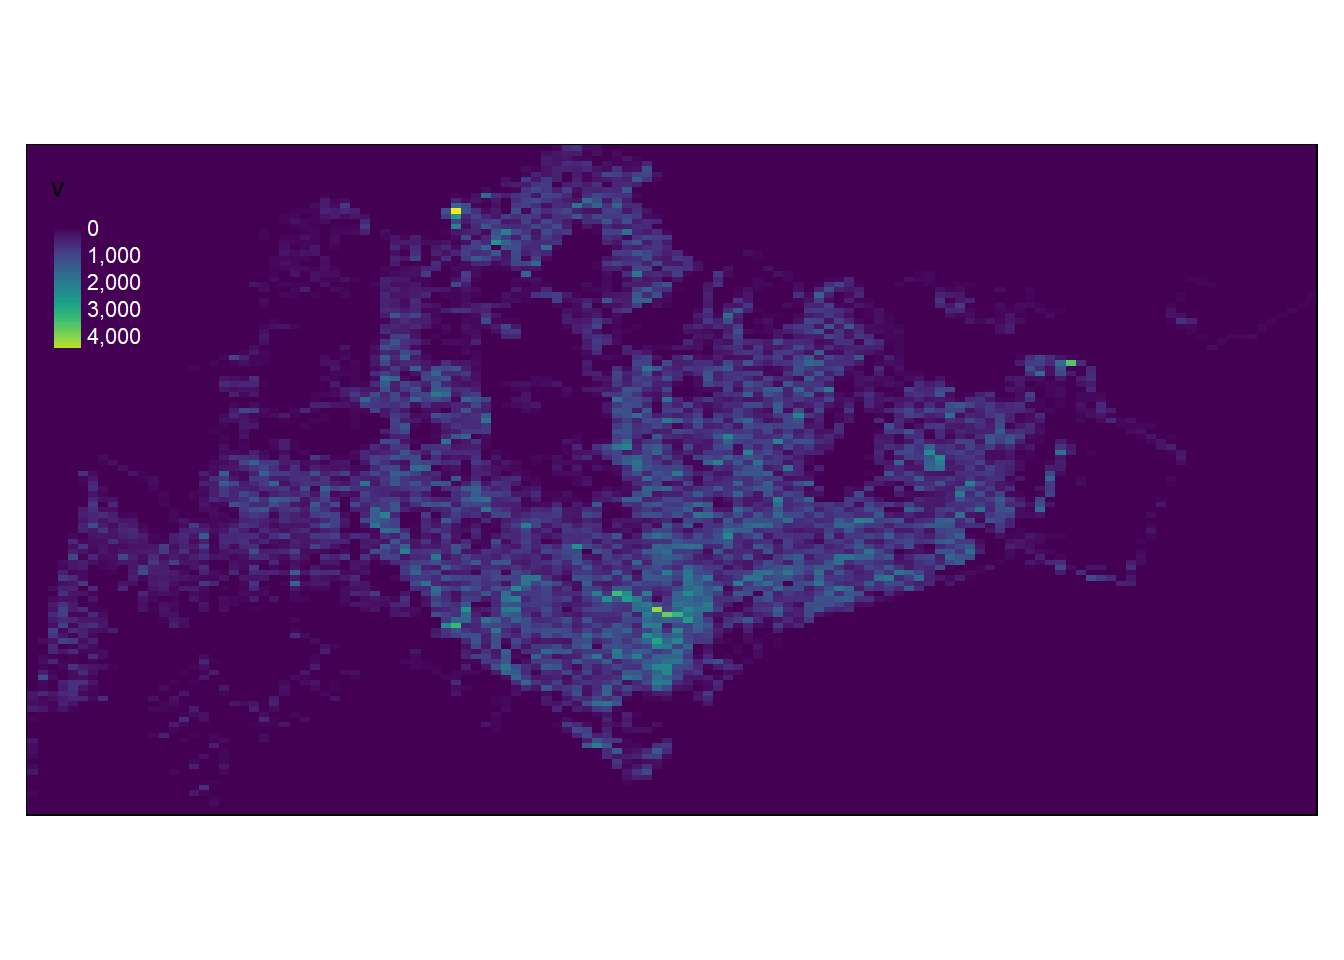
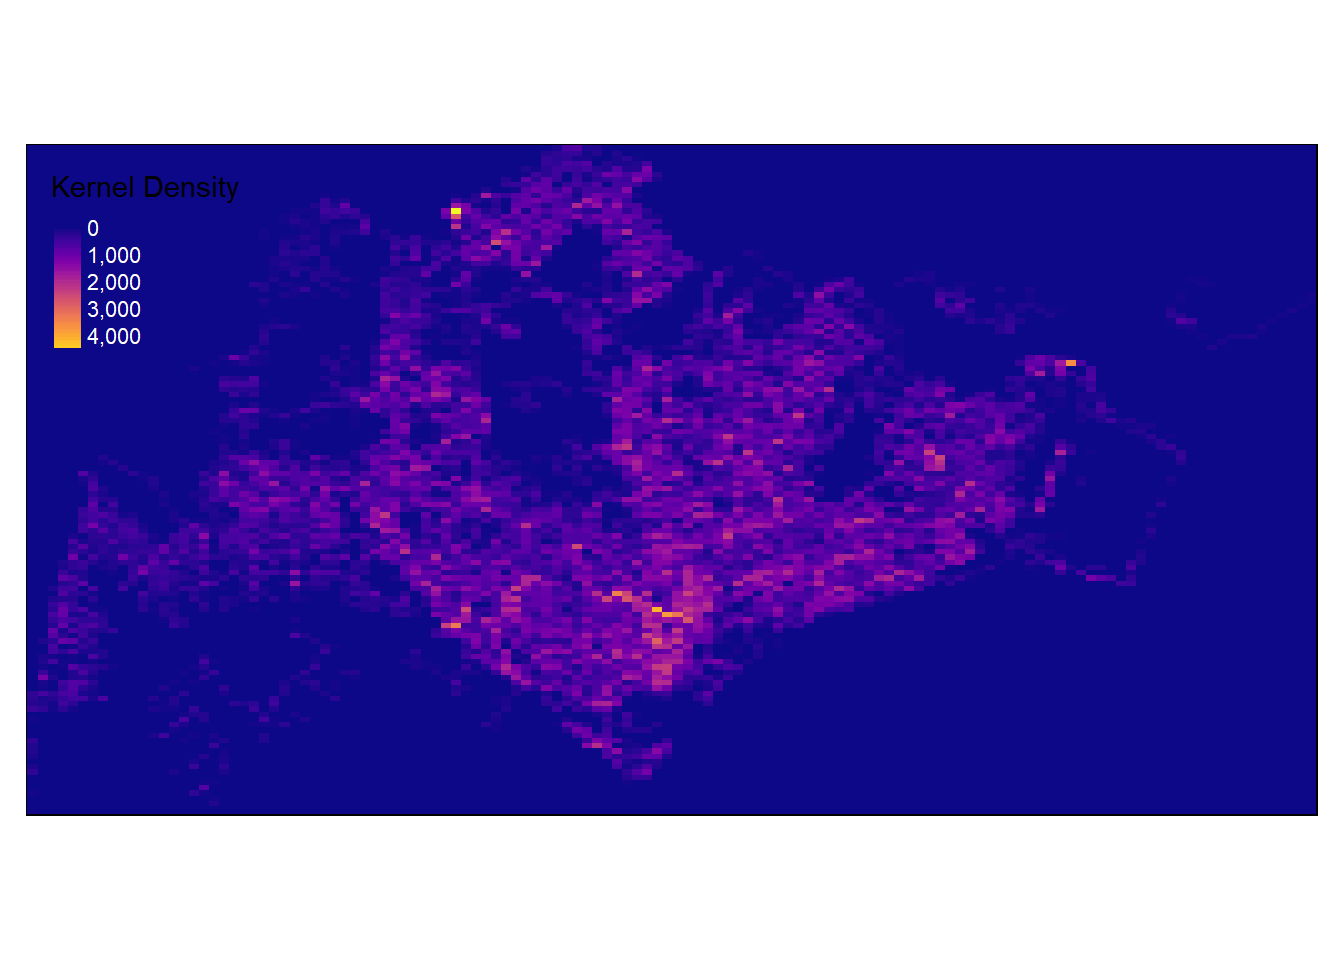
update

diff --git a/_site/Take-home_Ex/Take-home_Ex01/Take-home_Ex01.html b/_site/Take-home_Ex/Take-home_Ex01/Take-home_Ex01.html
@@ -1147,10 +1147,11 @@ Note
 <div class="sourceCode cell-code" id="cb87"><pre class="sourceCode r code-with-copy"><code class="sourceCode r"><span id="cb87-1"><a href="#cb87-1" aria-hidden="true" tabindex="-1"></a>osm_layer <span class="ot">&lt;-</span> <span class="fu">qtm</span>(<span class="at">basemaps =</span> <span class="st">"OpenStreetMap"</span>, <span class="at">zoom =</span> <span class="dv">12</span>)</span></code><button title="Copy to Clipboard" class="code-copy-button"><i class="bi"></i></button></pre></div>
 </div>
 <div class="cell">
-<div class="sourceCode cell-code" id="cb88"><pre class="sourceCode r code-with-copy"><code class="sourceCode r"><span id="cb88-1"><a href="#cb88-1" aria-hidden="true" tabindex="-1"></a><span class="fu">tm_shape</span>(kde_kde_roadSG_bw_raster) <span class="sc">+</span></span>
-<span id="cb88-2"><a href="#cb88-2" aria-hidden="true" tabindex="-1"></a>  <span class="fu">tm_raster</span>(<span class="at">style =</span> <span class="st">"cont"</span>, <span class="at">palette =</span> <span class="st">"viridis"</span>) <span class="sc">+</span></span>
-<span id="cb88-3"><a href="#cb88-3" aria-hidden="true" tabindex="-1"></a>  <span class="fu">tm_layout</span>(<span class="at">legend.show =</span> <span class="cn">TRUE</span>, <span class="at">legend.text.color =</span> <span class="st">"white"</span>) <span class="sc">+</span></span>
-<span id="cb88-4"><a href="#cb88-4" aria-hidden="true" tabindex="-1"></a>  osm_layer</span></code><button title="Copy to Clipboard" class="code-copy-button"><i class="bi"></i></button></pre></div>
+<div class="sourceCode cell-code" id="cb88"><pre class="sourceCode r code-with-copy"><code class="sourceCode r"><span id="cb88-1"><a href="#cb88-1" aria-hidden="true" tabindex="-1"></a><span class="fu">tmap_mode</span>(<span class="st">"plot"</span>)</span>
+<span id="cb88-2"><a href="#cb88-2" aria-hidden="true" tabindex="-1"></a><span class="fu">tm_shape</span>(kde_kde_roadSG_bw_raster) <span class="sc">+</span></span>
+<span id="cb88-3"><a href="#cb88-3" aria-hidden="true" tabindex="-1"></a>  <span class="fu">tm_raster</span>(<span class="at">style =</span> <span class="st">"cont"</span>, <span class="at">palette =</span> <span class="st">"plasma"</span>, <span class="at">title=</span> <span class="st">"Kernel Density"</span>) <span class="sc">+</span></span>
+<span id="cb88-4"><a href="#cb88-4" aria-hidden="true" tabindex="-1"></a>  <span class="fu">tm_layout</span>(<span class="at">legend.show =</span> <span class="cn">TRUE</span>, <span class="at">legend.text.color =</span> <span class="st">"white"</span>) <span class="sc">+</span></span>
+<span id="cb88-5"><a href="#cb88-5" aria-hidden="true" tabindex="-1"></a>  osm_layer</span></code><button title="Copy to Clipboard" class="code-copy-button"><i class="bi"></i></button></pre></div>
 <div class="cell-output-display">
 <p><img src="Take-home_Ex01_files/figure-html/unnamed-chunk-69-1.png" class="img-fluid" width="672"></p>
 </div>

diff --git a/_site/index.html b/_site/index.html
@@ -410,7 +410,7 @@ Wan Shen
 </a>
 </div>
 </div>
-<div class="quarto-post image-right" data-index="6" data-categories="Take-Home Exercise" data-listing-date-sort="1705766400000" data-listing-file-modified-sort="1705832925079" data-listing-date-modified-sort="NaN" data-listing-reading-time-sort="8">
+<div class="quarto-post image-right" data-index="6" data-categories="Take-Home Exercise" data-listing-date-sort="1705766400000" data-listing-file-modified-sort="1705836662533" data-listing-date-modified-sort="NaN" data-listing-reading-time-sort="8">
 <div class="thumbnail">
 <p><a href="./Take-home_Ex/Take-home_Ex01/Take-home_Ex01.html"> <p class="card-img-top"><img src="Take-home_Ex\Take-home_Ex01\Take-home_Ex01_files\figure-html\unnamed-chunk-21-1.png"  class="thumbnail-image card-img"/></p> </a></p>
 </div>
